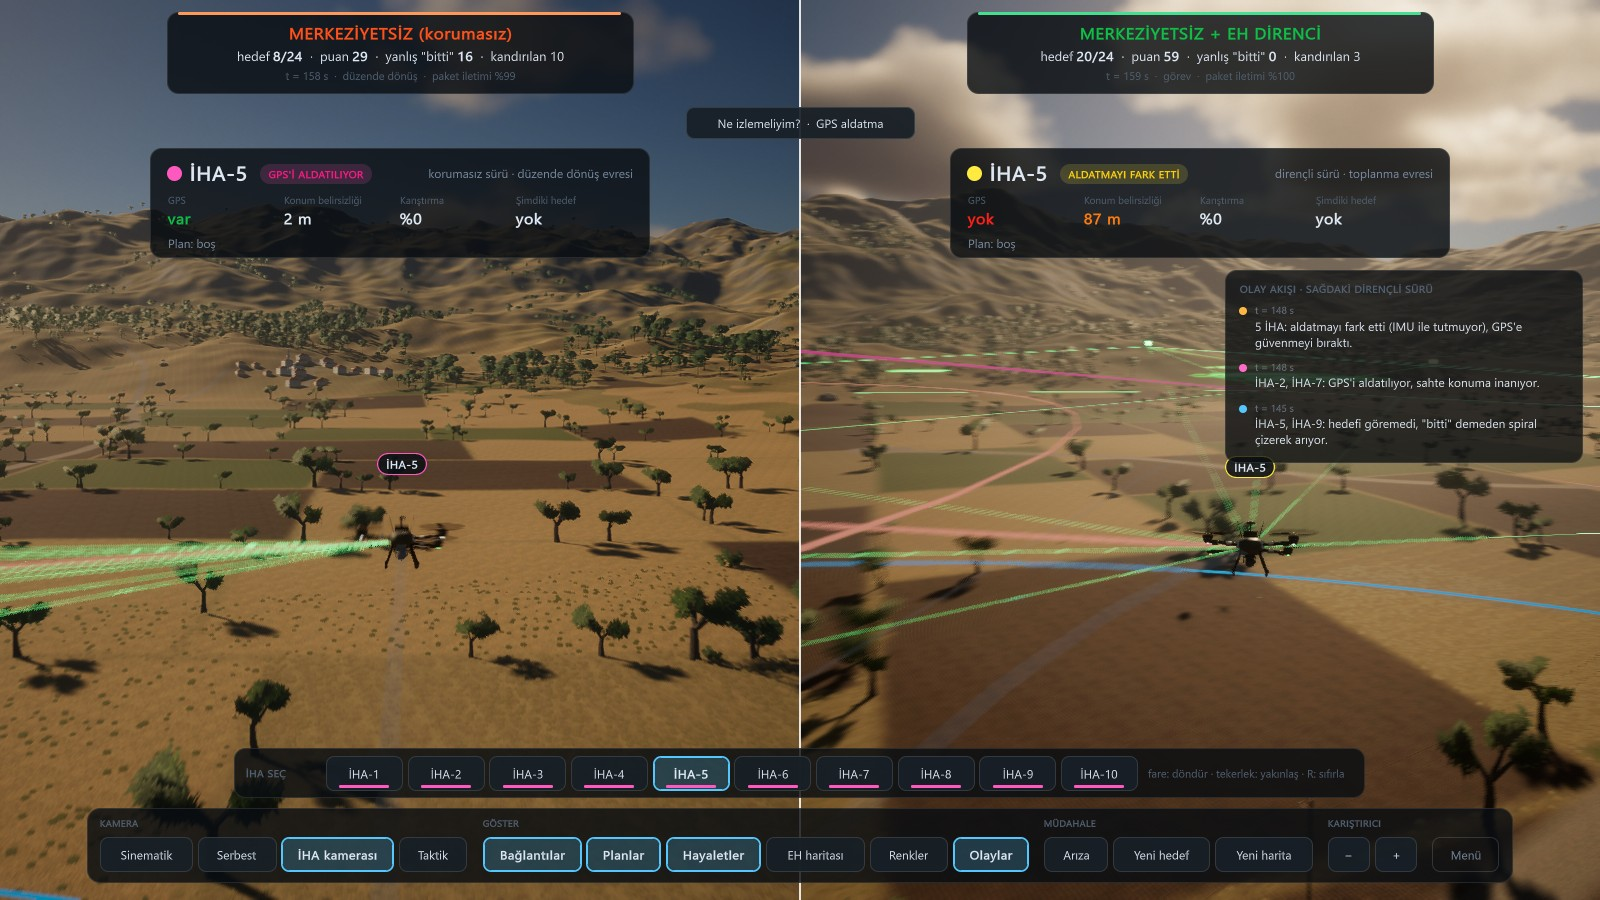
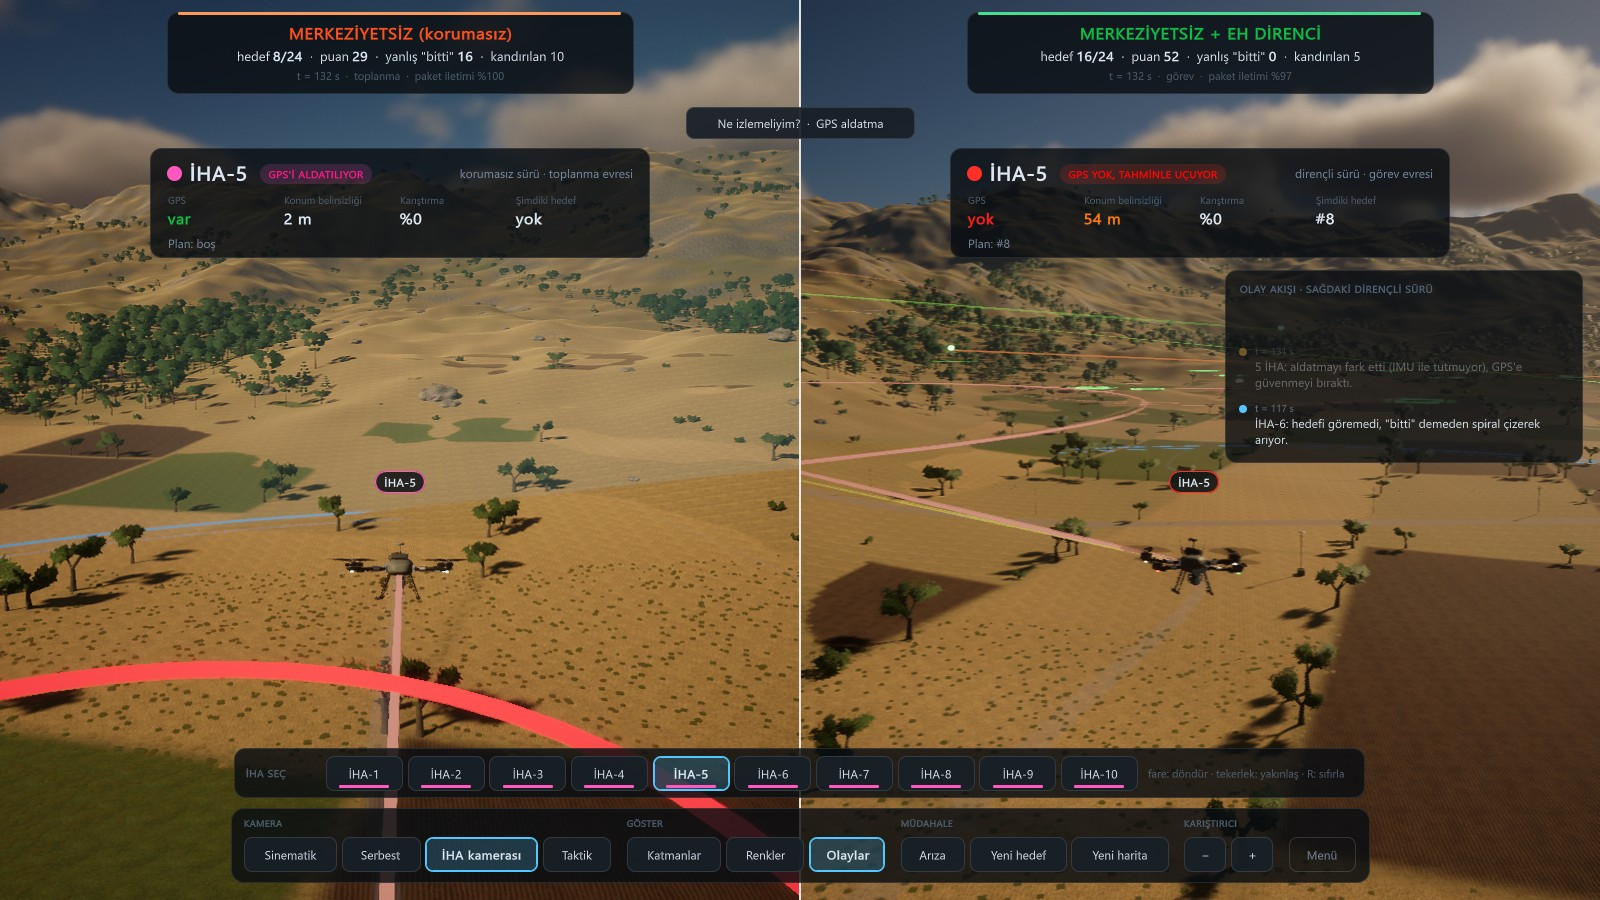
Görünüm katmanları: İHA bağlantıları kapalı / sorunlu / hepsi, katman paneli
- İHA bağlantı çizgileri varsayılan olarak kapalı; "Sorunlu" kipinde yalnızca
  karıştırılan (kalite < 0,6) bağlantılar kalın ve parlak kırmızı çizilir
- Araç çubuğunda "Katmanlar" paneli: bağlantılar, planlar, konum hayaletleri,
  karıştırma haritası, uçuş izleri, uzak işaretler ayrı ayrı açılıp kapanır
- Seçimler PlayerPrefs ile hatırlanır; L tuşu kapalı → sorunlu → hepsi
- Yan yana modunda ikinci sürü aynı bağlantı kipini kullanır
- Arayüz testine katman paneli ve sorunlu bağlantı kareleri, galeriye 57-58

diff --git a/unity/Assets/SuruIHA/Scripts/SwarmMenu.Layers.cs b/unity/Assets/SuruIHA/Scripts/SwarmMenu.Layers.cs
@@ -1,0 +1,126 @@
+using UnityEngine;
+
+namespace SuruIHA
+{
+    // "Katmanlar" paneli: sahnedeki çizgiler ve işaretler ayrı ayrı açılıp kapanır. Seçimler bilgisayarda
+    // hatırlanır (PlayerPrefs); kısayol tuşlarıyla yapılan değişiklikler de kaydedilir.
+    public partial class SwarmMenu
+    {
+        bool layersOpen;
+        int savedLayers = -1;
+
+        static readonly string[] OnOff = { "Kapalı", "Açık" };
+        static readonly string[] LinkModes = { "Kapalı", "Sorunlu", "Hepsi" };
+
+        // Bağlantılar: 0 kapalı, 1 yalnızca sorunlu (karıştırılan), 2 hepsi
+        static int LinkMode(SwarmVisualizer v) => !v.showLinks ? 0 : v.onlyWeakLinks ? 1 : 2;
+
+        static void SetLinkMode(SwarmVisualizer v, int m)
+        {
+            v.showLinks = m > 0;
+            v.onlyWeakLinks = m == 1;
+        }
+
+        static int PackLayers(SwarmVisualizer v) =>
+            LinkMode(v) | (v.showPlans ? 1 : 0) << 2 | (v.showEstimates ? 1 : 0) << 3 | (v.showJamMap ? 1 : 0) << 4 |
+            (v.showTrails ? 1 : 0) << 5 | (v.showBeacons ? 1 : 0) << 6;
+
+        static int Pref(string key, int def)
+        {
+            try { return PlayerPrefs.GetInt(key, def); }
+            catch (System.Exception) { return def; }
+        }
+
+        // Varsayılan görünüm: bağlantılar kapalı (ekran temiz); planlar, hayaletler, izler ve uzak işaretler açık
+        static void DefaultLayers(SwarmVisualizer v)
+        {
+            SetLinkMode(v, 0);
+            v.showPlans = true;
+            v.showEstimates = true;
+            v.showJamMap = false;
+            v.showTrails = true;
+            v.showBeacons = true;
+        }
+
+        void LoadLayers()
+        {
+            var v = SwarmVisualizer.Main;
+            if (v == null) return;
+            SetLinkMode(v, Mathf.Clamp(Pref("katman_baglanti", 0), 0, 2));
+            v.showPlans = Pref("katman_plan", 1) == 1;
+            v.showEstimates = Pref("katman_hayalet", 1) == 1;
+            v.showJamMap = Pref("katman_ehharita", 0) == 1;
+            v.showTrails = Pref("katman_iz", 1) == 1;
+            v.showBeacons = Pref("katman_isaret", 1) == 1;
+            savedLayers = PackLayers(v);
+        }
+
+        void SaveLayersIfChanged()
+        {
+            var v = SwarmVisualizer.Main;
+            if (v == null || savedLayers < 0) return;
+            int now = PackLayers(v);
+            if (now == savedLayers) return;
+            savedLayers = now;
+            try
+            {
+                PlayerPrefs.SetInt("katman_baglanti", LinkMode(v));
+                PlayerPrefs.SetInt("katman_plan", v.showPlans ? 1 : 0);
+                PlayerPrefs.SetInt("katman_hayalet", v.showEstimates ? 1 : 0);
+                PlayerPrefs.SetInt("katman_ehharita", v.showJamMap ? 1 : 0);
+                PlayerPrefs.SetInt("katman_iz", v.showTrails ? 1 : 0);
+                PlayerPrefs.SetInt("katman_isaret", v.showBeacons ? 1 : 0);
+                PlayerPrefs.Save();
+            }
+            catch (System.Exception ex) { Debug.LogWarning("[SuruIHA] Katman ayarları kaydedilemedi: " + ex.Message); }
+        }
+
+        // Bir katman satırı: başlık, açıklama ve sağda seçim düğmeleri; yeni seçimi döndürür
+        static int LayerRow(float x, float y, float w, string title, string desc, string[] opts, int sel)
+        {
+            const float segW = 88f, gap = 6f;
+            float segTotal = opts.Length * segW + (opts.Length - 1) * gap;
+            float tw = w - segTotal - 24f;
+            Ui.Label(Ui.R(x, y, tw, 22), title, 16, Ui.Ink, true);
+            Ui.Label(Ui.R(x, y + 23, tw, 34), desc, 13, Ui.Ink3);
+            float sx = x + w - segTotal;
+            for (int i = 0; i < opts.Length; i++)
+                if (Ui.Button(Ui.R(sx + i * (segW + gap), y + 6, segW, 38), opts[i], Ui.Kind.Normal, i == sel, 14.5f)) sel = i;
+            return sel;
+        }
+
+        void DrawLayersPanel(float above)
+        {
+            var v = SwarmVisualizer.Main;
+            if (v == null) return;
+            const float w = 680f, rowH = 66f;
+            float h = 54f + 6 * rowH + 66f;
+            float x = 430f, y = above - 16f - h;   // soldaki bilgi panelinin yanında
+            Ui.Panel(Ui.R(x, y, w, h), 14, 0.95f);
+            Ui.Label(Ui.R(x + 22, y + 16, 300, 20), "GÖRÜNÜM KATMANLARI", 11.5f, Ui.Accent, true);
+            if (Ui.Button(Ui.R(x + w - 48, y + 10, 32, 32), "×", Ui.Kind.Ghost, size: 18)) layersOpen = false;
+            float rx = x + 22f, rw = w - 44f, ry = y + 50f;
+
+            SetLinkMode(v, LayerRow(rx, ry, rw, "İHA bağlantıları",
+                "Haberleşme çizgileri. Sorunlu: yalnızca karıştırılan, zayıflamış bağlantılar", LinkModes, LinkMode(v)));
+            ry += rowH;
+            v.showPlans = LayerRow(rx, ry, rw, "İHA planları", "Her İHA'nın sıradaki hedeflerine giden rota (CBBA)", OnOff, v.showPlans ? 1 : 0) == 1;
+            ry += rowH;
+            v.showEstimates = LayerRow(rx, ry, rw, "Konum hayaletleri", "GPS'siz İHA'nın kendini sandığı yer ve belirsizlik halkası", OnOff, v.showEstimates ? 1 : 0) == 1;
+            ry += rowH;
+            v.showJamMap = LayerRow(rx, ry, rw, "Karıştırma haritası", "Sürünün ölçüp paylaştığı karıştırma bölgeleri", OnOff, v.showJamMap ? 1 : 0) == 1;
+            ry += rowH;
+            v.showTrails = LayerRow(rx, ry, rw, "Uçuş izleri", "İHA'ların arkasında bıraktığı iz", OnOff, v.showTrails ? 1 : 0) == 1;
+            ry += rowH;
+            v.showBeacons = LayerRow(rx, ry, rw, "Uzak işaretler", "Uzaktan bakınca İHA'ları gösteren parlak noktalar", OnOff, v.showBeacons ? 1 : 0) == 1;
+            ry += rowH + 6f;
+
+            if (Ui.Button(Ui.R(rx, ry, 190, 44), "Hepsini kapat", Ui.Kind.Ghost, size: 15))
+            {
+                SetLinkMode(v, 0);
+                v.showPlans = v.showEstimates = v.showJamMap = v.showTrails = v.showBeacons = false;
+            }
+            if (Ui.Button(Ui.R(rx + 200, ry, 190, 44), "Varsayılan", size: 15)) DefaultLayers(v);
+        }
+    }
+}

diff --git a/unity/Assets/SuruIHA/Scripts/SwarmMenu.Sim.cs b/unity/Assets/SuruIHA/Scripts/SwarmMenu.Sim.cs
@@ -39,6 +39,7 @@ namespace SuruIHA
             float above = tbTop;
             if (tpp) above = DrawDroneSelector(tbTop);
             if (legendOpen) DrawLegendPanel(above);
+            if (layersOpen) DrawLayersPanel(above);
             DrawResults();
             if (tip != null) DrawTip(above);
         }
@@ -302,18 +303,14 @@ namespace SuruIHA
                 }),
                 ("GÖSTER", cmpOn ? new[]
                 {
-                    new Tool("Bağlantılar", "Haberleşme bağlantıları [L]: yeşil sağlam, kırmızı karıştırılmış.", vis.showLinks, () => vis.showLinks = !vis.showLinks),
-                    new Tool("Planlar", "İHA'ların planları [P]: her İHA'nın sıradaki hedeflerine giden rota.", vis.showPlans, () => vis.showPlans = !vis.showPlans),
-                    new Tool("Hayaletler", "İHA'nın sandığı konum [G]: GPS'siz İHA kendini nerede sanıyor (halka).", vis.showEstimates, () => vis.showEstimates = !vis.showEstimates),
-                    new Tool("EH haritası", "Sürünün ortak karıştırma haritası [J]: İHA'ların karıştırma ölçtüğü bölgeler.", vis.showJamMap, () => vis.showJamMap = !vis.showJamMap),
+                    new Tool("Katmanlar", "Görünüm katmanları: İHA bağlantıları, planlar, hayaletler, karıştırma haritası, izler. Her biri ayrı açılıp kapanır.",
+                             layersOpen, () => layersOpen = !layersOpen),
                     new Tool("Renkler", "Renklerin anlamı [I]", legendOpen, () => legendOpen = !legendOpen),
                     new Tool("Olaylar", "Sağdaki olay akışını göster ya da gizle.", feedOpen, () => feedOpen = !feedOpen),
                 } : new[]
                 {
-                    new Tool("Bağlantılar", "Haberleşme bağlantıları [L]: yeşil sağlam, kırmızı karıştırılmış.", vis.showLinks, () => vis.showLinks = !vis.showLinks),
-                    new Tool("Planlar", "İHA'ların planları [P]: her İHA'nın sıradaki hedeflerine giden rota.", vis.showPlans, () => vis.showPlans = !vis.showPlans),
-                    new Tool("Hayaletler", "İHA'nın sandığı konum [G]: GPS'siz İHA kendini nerede sanıyor (halka).", vis.showEstimates, () => vis.showEstimates = !vis.showEstimates),
-                    new Tool("EH haritası", "Sürünün ortak karıştırma haritası [J]: İHA'ların karıştırma ölçtüğü bölgeler.", vis.showJamMap, () => vis.showJamMap = !vis.showJamMap),
+                    new Tool("Katmanlar", "Görünüm katmanları: İHA bağlantıları, planlar, hayaletler, karıştırma haritası, izler. Her biri ayrı açılıp kapanır.",
+                             layersOpen, () => layersOpen = !layersOpen),
                     new Tool("Renkler", "Renklerin anlamı [I]", legendOpen, () => legendOpen = !legendOpen),
                     new Tool("Olaylar", "Sağdaki olay akışını göster ya da gizle.", feedOpen, () => feedOpen = !feedOpen),
                     new Tool("Panel", "Soldaki bilgi paneli [H]", hud != null && hud.visible, () => { if (hud != null) hud.visible = !hud.visible; }),
@@ -540,8 +537,13 @@ namespace SuruIHA
             log.AppendLine($"bağlantı: {(SimConnected ? "var" : "YOK")} {Time.realtimeSinceStartup - t0:0.0} s, durum={launcher.Status} {launcher.LastError}");
             yield return Wait(6f);
             yield return Shot("12_senaryo_kutusu");
-            yield return Wait(18f);
+            yield return Wait(14f);
             yield return Shot("13_gorevde");
+            SetLinkMode(SwarmVisualizer.Main, 1);  // sürü karıştırma bölgesindeyken yalnızca karıştırılan bağlantılar
+            cam.mode = SwarmCamera.Mode.Top;
+            yield return Wait(2f);
+            yield return Shot("13a_sorunlu_baglantilar");
+            DefaultLayers(SwarmVisualizer.Main);
             cam.SetFollow(2);                      // İHA kamerası (TPP): İHA-3
             cam.mode = SwarmCamera.Mode.Follow;
             yield return Wait(3f);
@@ -549,6 +551,10 @@ namespace SuruIHA
             cam.mode = SwarmCamera.Mode.Top;       // taktik görünümde tıklanabilir İHA numaraları
             yield return Wait(2.5f);
             yield return Shot("13c_taktik_numaralar");
+            layersOpen = true;
+            yield return Wait(1f);
+            yield return Shot("13d_katmanlar");
+            layersOpen = false;
             cam.mode = SwarmCamera.Mode.Cinematic;
             legendOpen = true;
             yield return Wait(1f);

diff --git a/unity/Assets/SuruIHA/Scripts/SwarmVisualizer.cs b/unity/Assets/SuruIHA/Scripts/SwarmVisualizer.cs
@@ -25,6 +25,9 @@ namespace SuruIHA
         public float trailSeconds = 6f;
         public bool showTrails = true;
         public bool showLinks = true;
+        [Tooltip("Yalnızca zayıflamış (karıştırılan) bağlantıları çiz: ekran temiz kalır, EH etkisi yine görünür")]
+        public bool onlyWeakLinks;
+        public const float WeakLink = 0.6f;   // bu kalitenin altındaki bağlantı "sorunlu" sayılır
         public bool showEstimates = true;
         [Tooltip("Dirençli sürünün ortak karıştırma haritası (J tuşu)")]
         public bool showJamMap = false;
@@ -178,7 +181,7 @@ namespace SuruIHA
             {
                 // Merkezi mimaride İHA'lar birbirleriyle konuşmaz: yalnızca istasyon bağlantıları (yıldız) çizilir
                 bool central = Frame != null && Frame.strategy == "centralized";
-                bool on = showLinks && !central && k < linkData.Count;
+                bool on = showLinks && !central && k < linkData.Count && (!onlyWeakLinks || (k < linkQ.Count && linkQ[k] < WeakLink));
                 if (links[k].enabled != on) links[k].enabled = on;
                 if (!on) continue;
                 var d = linkData[k];
@@ -189,15 +192,16 @@ namespace SuruIHA
                 // Kameraya yakın çizgiler incelsin (takip kamerasında ekranı kaplamasın)
                 var cam = RenderCamera;
                 float near = cam != null ? DistanceToSegment(cam.transform.position, a, b) : 200f;
-                links[k].widthMultiplier = linkWidth * Mathf.Lerp(0.4f, 1f, k < linkQ.Count ? linkQ[k] : 1f)
-                                           * Mathf.Clamp(near / 120f, 0.08f, 1f);
+                // "Sorunlu" kipinde ekranda yalnızca bunlar kalır: ince ve sönük değil, belirgin çizilsin
+                float wq = onlyWeakLinks ? 1.4f : Mathf.Lerp(0.4f, 1f, k < linkQ.Count ? linkQ[k] : 1f);
+                links[k].widthMultiplier = linkWidth * wq * Mathf.Clamp(near / 120f, 0.08f, 1f);
             }
             if (gcs != null && Frame?.gcs?.up != null)
             {
                 Vector3 mast = gcsMastTop != null ? gcsMastTop.position : gcs.position + Vector3.up * 12f;
                 for (int i = 0; i < gcsLinks.Count; i++)
                 {
-                    bool on = showLinks && Frame.gcs.on == 1 && i < Frame.gcs.up.Length && Frame.gcs.up[i] == 1 && i < drones.Count;
+                    bool on = showLinks && !onlyWeakLinks && Frame.gcs.on == 1 && i < Frame.gcs.up.Length && Frame.gcs.up[i] == 1 && i < drones.Count;
                     gcsLinks[i].enabled = on;
                     if (!on) continue;
                     gcsLinks[i].SetPosition(0, mast);
@@ -260,7 +264,7 @@ namespace SuruIHA
                 // Kalite 1 = yeşil (sağlam), 0 = kırmızı (karıştırılmış)
                 float q = linkQ[k];
                 Color c = Color.Lerp(new Color(1f, 0.12f, 0.08f), new Color(0.15f, 1f, 0.55f), q);
-                SwarmMaterials.SetBlock(block, c * 0.2f, c * glow * Mathf.Lerp(0.35f, 1f, q));
+                SwarmMaterials.SetBlock(block, c * 0.2f, c * glow * (onlyWeakLinks ? 1.3f : Mathf.Lerp(0.35f, 1f, q)));
                 links[k].SetPropertyBlock(block);
                 links[k].widthMultiplier = linkWidth * Mathf.Lerp(0.4f, 1f, q);
             }

diff --git a/unity/Assets/SuruIHA/Scripts/SwarmHud.cs b/unity/Assets/SuruIHA/Scripts/SwarmHud.cs
@@ -28,7 +28,13 @@ namespace SuruIHA
             if (Ui.Modal) return;   // menü açık: kısayollar susar
             if (SwarmInput.Down(SwarmInput.K.H)) visible = !visible;
             if (visualizer == null) return;
-            if (SwarmInput.Down(SwarmInput.K.L)) visualizer.showLinks = !visualizer.showLinks;
+            if (SwarmInput.Down(SwarmInput.K.L))
+            {
+                // Bağlantılar: kapalı → yalnızca sorunlu → hepsi → kapalı
+                if (!visualizer.showLinks) { visualizer.showLinks = true; visualizer.onlyWeakLinks = true; }
+                else if (visualizer.onlyWeakLinks) visualizer.onlyWeakLinks = false;
+                else visualizer.showLinks = false;
+            }
             if (SwarmInput.Down(SwarmInput.K.G)) visualizer.showEstimates = !visualizer.showEstimates;
             if (SwarmInput.Down(SwarmInput.K.J)) visualizer.showJamMap = !visualizer.showJamMap;
             if (SwarmInput.Down(SwarmInput.K.B)) visualizer.showBeacons = !visualizer.showBeacons;

diff --git a/unity/Assets/SuruIHA/Scripts/SwarmMenu.cs b/unity/Assets/SuruIHA/Scripts/SwarmMenu.cs
@@ -54,6 +54,7 @@ namespace SuruIHA
             cam = FindAnyObjectByType<SwarmCamera>();
             launcher = GetComponent<SimLauncher>();
             if (cam != null) cam.mode = SwarmCamera.Mode.Cinematic;
+            LoadLayers();
             var args = Environment.GetCommandLineArgs();
             int i = Array.IndexOf(args, "-suruUiTest");
             if (i >= 0) StartCoroutine(UiTest(i + 1 < args.Length ? args[i + 1] : "UiTest"));
@@ -97,6 +98,7 @@ namespace SuruIHA
                 if (SwarmInput.Down(SwarmInput.K.Left) || SwarmInput.Down(SwarmInput.K.PageUp)) CurrentTab = (Tab)(((int)CurrentTab + n - 1) % n);
             }
             if (Current == Page.Sim && SwarmInput.Down(SwarmInput.K.I)) legendOpen = !legendOpen;
+            SaveLayersIfChanged();
 
             // İHA kamerasına geçince senaryo kutusu küçülür (İHA bilgi kartına yer açılır)
             bool tppNow = cam != null && cam.mode == SwarmCamera.Mode.Follow;

diff --git a/unity/Assets/SuruIHA/Scripts/SwarmMenu.Pages.cs b/unity/Assets/SuruIHA/Scripts/SwarmMenu.Pages.cs
@@ -36,7 +36,7 @@ namespace SuruIHA
         {
             ("C", "Sinematik kamera"), ("O", "Serbest kamera (fare + WASD)"), ("F · Tab · 1-9 · 0", "İHA kamerası (TPP)"),
             ("R", "İHA kamerasının açısını sıfırla"),
-            ("T", "Taktik kuşbakışı"), ("L", "Haberleşme bağlantıları"), ("P", "İHA'ların planları"),
+            ("T", "Taktik kuşbakışı"), ("L", "Bağlantılar: kapalı → sorunlu → hepsi"), ("P", "İHA'ların planları"),
             ("G", "İHA'nın sandığı konum"), ("J", "Sürünün karıştırma haritası"), ("I", "Renklerin anlamı"),
             ("H", "Bilgi paneli"), ("Z", "Bir İHA'yı arızalandır"), ("Y", "Yeni hedef ekle"),
             ("+ / −", "Karıştırıcı gücü"), ("M", "Karıştırıcı türü"), ("U", "GPS aldatıcı"), ("X", "Saldırgan İHA'lar"),

diff --git a/unity/Assets/SuruIHA/Scripts/SwarmCompare.cs b/unity/Assets/SuruIHA/Scripts/SwarmCompare.cs
@@ -65,7 +65,7 @@ namespace SuruIHA
             if (A == null || B == null || mainCam == null) return;
             // İkinci düzenek ana düzenekle aynı yerde durur (ana düzenek zemine oturtulmuş olabilir)
             B.transform.SetPositionAndRotation(A.transform.position, A.transform.rotation);
-            B.showLinks = A.showLinks; B.showEstimates = A.showEstimates; B.showJamMap = A.showJamMap;
+            B.showLinks = A.showLinks; B.onlyWeakLinks = A.onlyWeakLinks; B.showEstimates = A.showEstimates; B.showJamMap = A.showJamMap;
             B.showBeacons = A.showBeacons; B.showPlans = A.showPlans; B.showTrails = A.showTrails;
 
             if (Time.unscaledTime > nextLayer)

diff --git a/tools/collect_gallery.py b/tools/collect_gallery.py
@@ -67,6 +67,8 @@ SHOTS = [
     (r"C:\SuruIHA\arayuz_testi\13b_iha_kamerasi.png", "54_iha_kamerasi_tpp.jpg"),
     (r"C:\SuruIHA\arayuz_testi\19_yan_yana_iha_kamerasi.png", "55_yan_yana_iha_kamerasi.jpg"),
     (r"C:\SuruIHA\arayuz_testi\13c_taktik_numaralar.png", "56_taktik_iha_numaralari.jpg"),
+    (r"C:\SuruIHA\arayuz_testi\13d_katmanlar.png", "57_gorunum_katmanlari.jpg"),
+    (r"C:\SuruIHA\arayuz_testi\13a_sorunlu_baglantilar.png", "58_yalnizca_sorunlu_baglantilar.jpg"),
 ]
 
 os.makedirs(OUT, exist_ok=True)

diff --git a/README.md b/README.md
@@ -77,6 +77,12 @@ Simülasyon sırasında ekranda:
 - **Solda bilgi paneli:** uçuş evresi, hedef, puan, süre ve EH durumu.
 - **Altta araç çubuğu:** kamera, katmanlar, renklerin anlamı, arıza ve yeni hedef gibi müdahaleler. Her
   düğmenin üstüne gelince ne yaptığı yazar; klavye kısayolu bilmek gerekmez.
+- **Katmanlar paneli:** sahnedeki çizgi ve işaretler ayrı ayrı açılıp kapanır: İHA bağlantıları
+  (kapalı / yalnızca sorunlu / hepsi), İHA planları, konum hayaletleri, karıştırma haritası, uçuş izleri,
+  uzak işaretler. Bağlantılar varsayılan olarak kapalıdır (sahne temiz görünsün); "Sorunlu" seçilince
+  yalnızca karıştırılan bağlantılar kırmızı çizilir. Seçimler bilgisayarda hatırlanır.
+
+  ![Görünüm katmanları](gorseller/57_gorunum_katmanlari.jpg)
 - **İHA kamerası (TPP):** "İHA kamerası" düğmesiyle bir İHA'yı arkasından izlersin. Altta İHA-1 … İHA-10
   seçici çıkar (her düğmenin altındaki çizgi o İHA'nın durum rengi); üstte izlenen İHA'nın kartı durur:
   durumu, evresi, GPS'i, konum belirsizliği, karıştırma seviyesi, hedefi ve planı. Taktik görünümde her
@@ -177,7 +183,7 @@ Her video karesi 0,1 s simülasyondur; video 3 kat hızlıdır ve bu ekranda yaz
 | **F**, **Tab**, **1-9**, **0** | İHA kamerası (üçüncü şahıs, TPP): seçili İHA'yı arkasından ve üstünden izler. 1-9 ve 0 (İHA-10) doğrudan seçer, Tab sıradakine geçer. Fareyle sürükleyince İHA'nın etrafında döner, tekerlekle yakınlaşır |
 | **R** | İHA kamerasının açısını ve uzaklığını sıfırla |
 | **T** | Taktik kuşbakışı |
-| **L** | Haberleşme bağlantılarını göster/gizle |
+| **L** | İHA bağlantıları: kapalı → yalnızca sorunlu (karıştırılan) → hepsi |
 | **G** | "İHA'nın sandığı konum" hayaletlerini göster/gizle |
 | **J** | Dirençli sürünün ortak karıştırma haritası |
 | **B** | Uzaktan görünen İHA işaretleri (durum renginde parlayan noktalar) |
